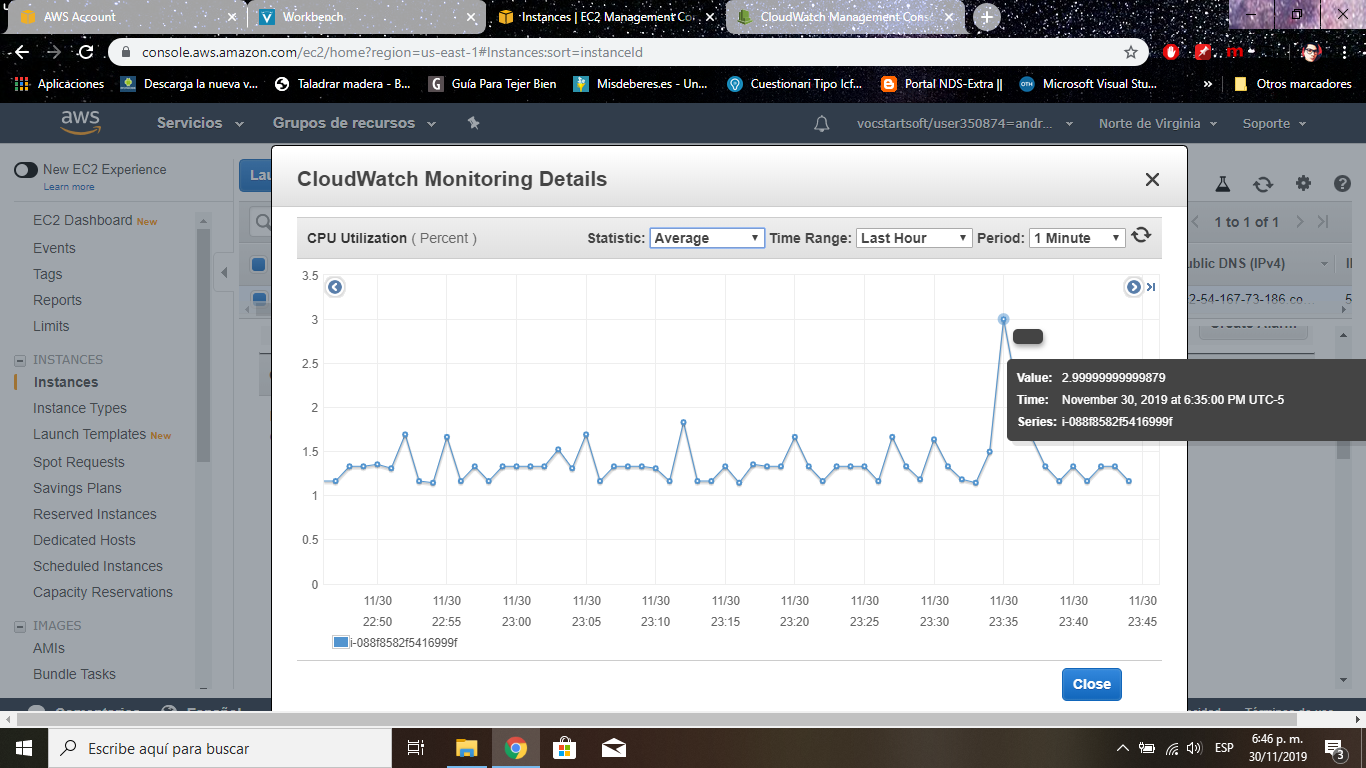
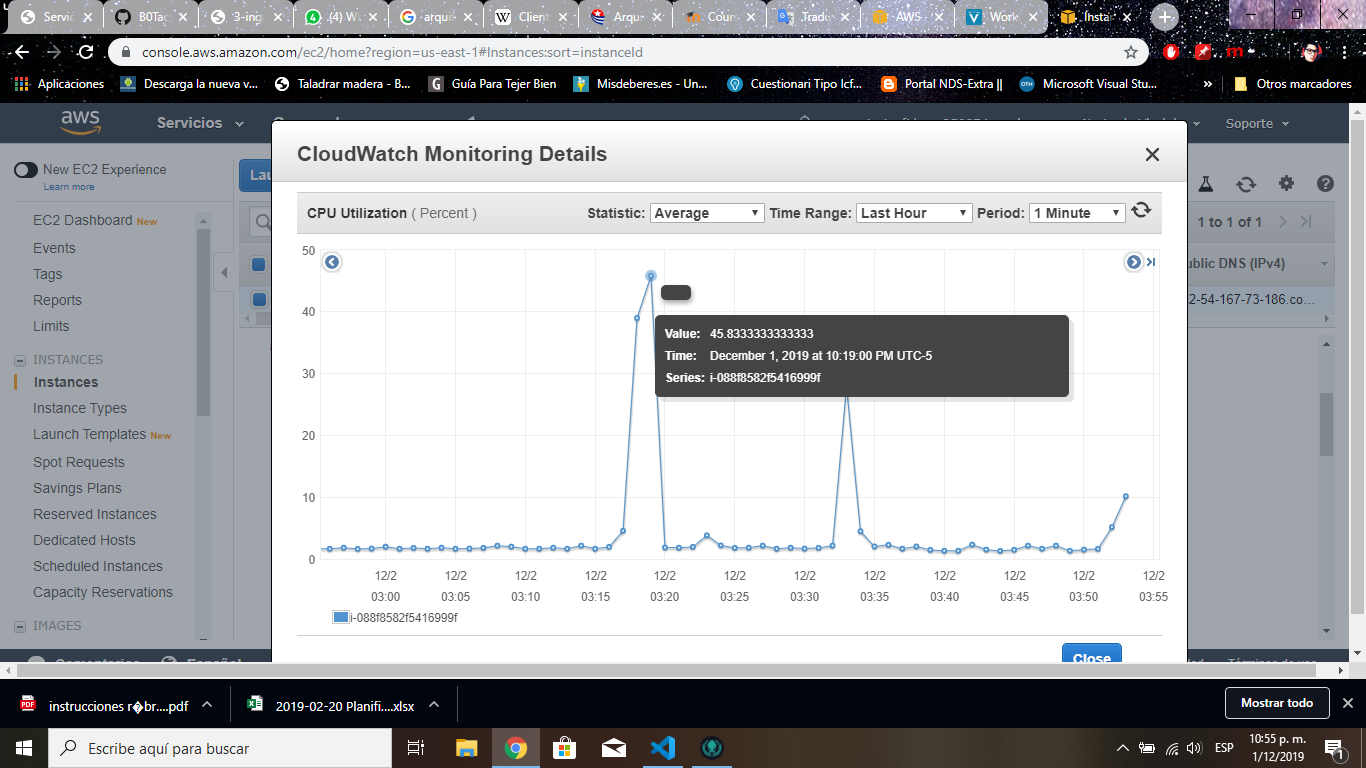
Graficas de requerimientos no funcionales

diff --git a/README.md b/README.md
@@ -91,8 +91,10 @@ https://tree.taiga.io/project/nicolaspatino-b0tacticsio/backlog
 
 ## Atributos No Funcionales
 
-+ **Usabilidad**
++ # **Usabilidad**
     + **se puede jugar desde cualquier dispositivo (pc, tablet, celular)**
+
+    ![](img/usabilidadGrafica.jpg)
 
     Se hizo la prueba desde la aplicacion web "http://responsive-design.active-value.de/" alli se puede simular nuesra aplicacion sobre distintos tamaños de dispositivos.
 
@@ -101,7 +103,7 @@ https://tree.taiga.io/project/nicolaspatino-b0tacticsio/backlog
 
     ![](img/usabilidad/prueba_Multiplataforma.gif)
 
-+ **Escalabilidad**
++ # **Escalabilidad Vertical con AWS**
     + **Información de la maquina**
     ![](img/escalabilidad/CpuINFO.PNG)
 
@@ -115,19 +117,45 @@ https://tree.taiga.io/project/nicolaspatino-b0tacticsio/backlog
     en conclusion usando la maquina de AWS mas basica que es la free, logramos un Rendimiento increible asi que si se llegara a usar una maquina mas avanzada el proyecto puede crecer viablemente con nuevas funcionalidades.
 
 
-+ **Disponibilidad**
++ # **Disponibilidad**
 
     + Manejamos una instancia EC2 en windows con amazon web services que garantiza que tengamos una operabilidad del 99% de nuestro servidor las 24h del dia.
 
 
-+ **Rendimiento (Performance)**
++ # **Rendimiento (Performance)**
 
-    + **Almacenamiento en cache**: Entonces, estamos usando webpack para agrupar nuestra aplicación modular que produce un       /dist directorio desplegable . Una vez que el contenido de /dist se haya implementado en un servidor, los clientes (generalmente los navegadores) accederán a ese servidor para capturar el sitio y sus activos facilmente.
+    + **Almacenamiento en cache**
+        Entonces, estamos usando webpack para agrupar nuestra aplicación modular que produce un       /dist directorio desplegable . Una vez que el contenido de /dist se haya implementado en un servidor, los clientes (generalmente los navegadores) accederán a ese servidor para capturar el sitio y sus activos facilmente.
+    ![](img/performanceGrafica.jpg)
     
-+ **Seguridad**
+
+
+    + **Latencia de 100ms**
+        utilizar un retraso de renderizado de 100 ms, lo que significa que el estado del cliente "actual" siempre estará 100 ms por detrás del estado del juego del servidor. Por ejemplo, si el servidor está en el momento 150 , el estado representado en el cliente será el estado del servidor en el momento 50 :
+        
+        ![](img/100ms1.JPG)
+
+        Esto nos da un búfer de 100 ms para tolerar llegadas impredecibles de actualizaciones del juego:
+
+        ![](img/100ms2.JPG)
+
+        ![](img/performanceGrafica2.jpg)
+
+    + **Interpolación Lineal**
+        La otra mejora que haremos es usar interpolación lineal. Debido a la demora en el procesamiento, generalmente ya tendremos al menos 1 actualización antes de la hora actual del cliente. Cada vez que se llama, podemos interpolar linealmente entre las actualizaciones del juego inmediatamente antes y después del tiempo actual del cliente:
+
+        ![](img/100ms3.JPG)
+
+        Esto resuelve nuestro problema de velocidad de cuadros: ¡ahora podemos renderizar cuadros únicos con la frecuencia que queramos!
+    
++ # **Seguridad**
     + **Servidor EC2 (windows)**:
         + Grupo de seguridad habilitando solamente los puertos que usaremos en nuestra aplicación
+
+        ![](img/seguridadGrafica.jpg)
+
         + snapshots diarios que seran nuestro backup del servicio
+
     
 
 ## Software posiblemente a usar para la iniciacion del proyecto.
